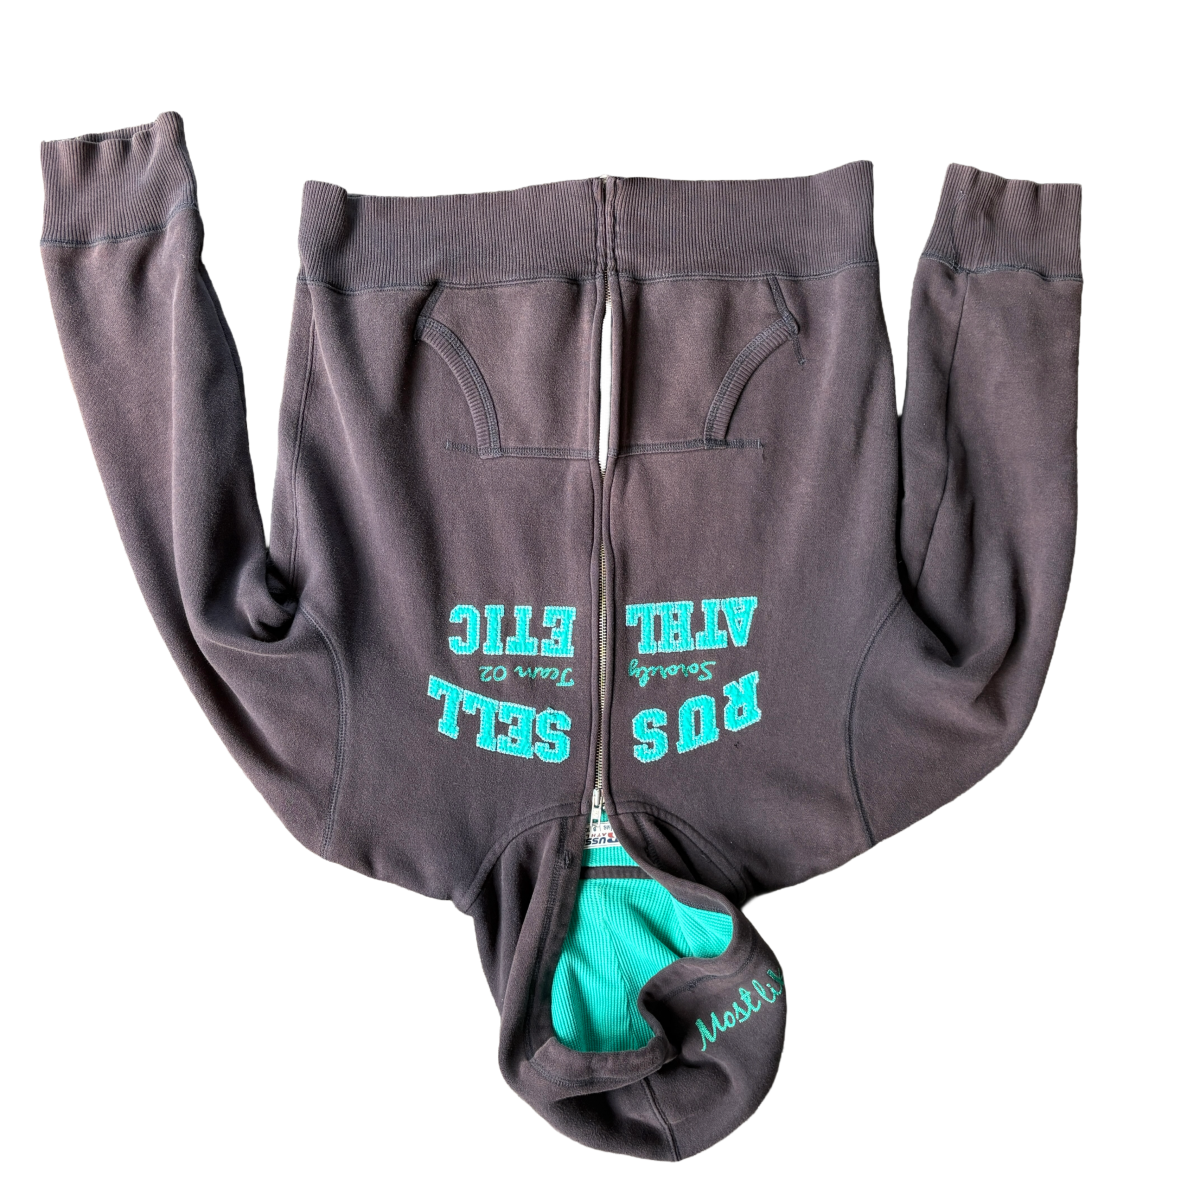
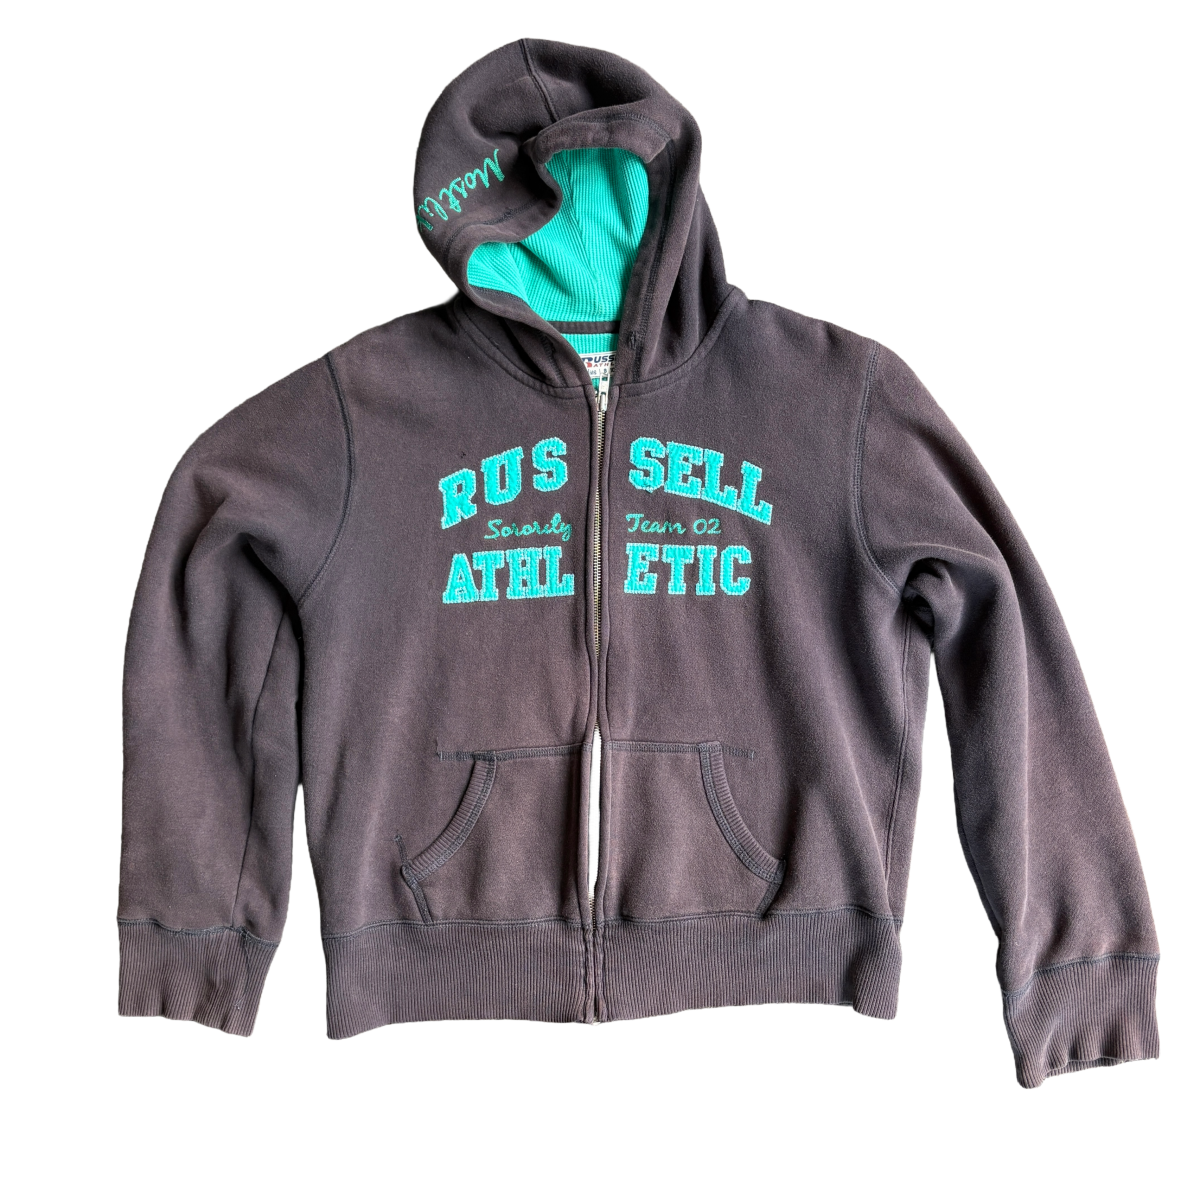
fixed sideways images

diff --git a/static/css/inventory.css b/static/css/inventory.css
@@ -111,6 +111,10 @@ nav a:hover {
   border-bottom: none;
 }
 
+.dropdown-content a:hover {
+  background-color: transparent;
+}
+
 .dropdown:hover .dropdown-content {
   display: block;
 }
